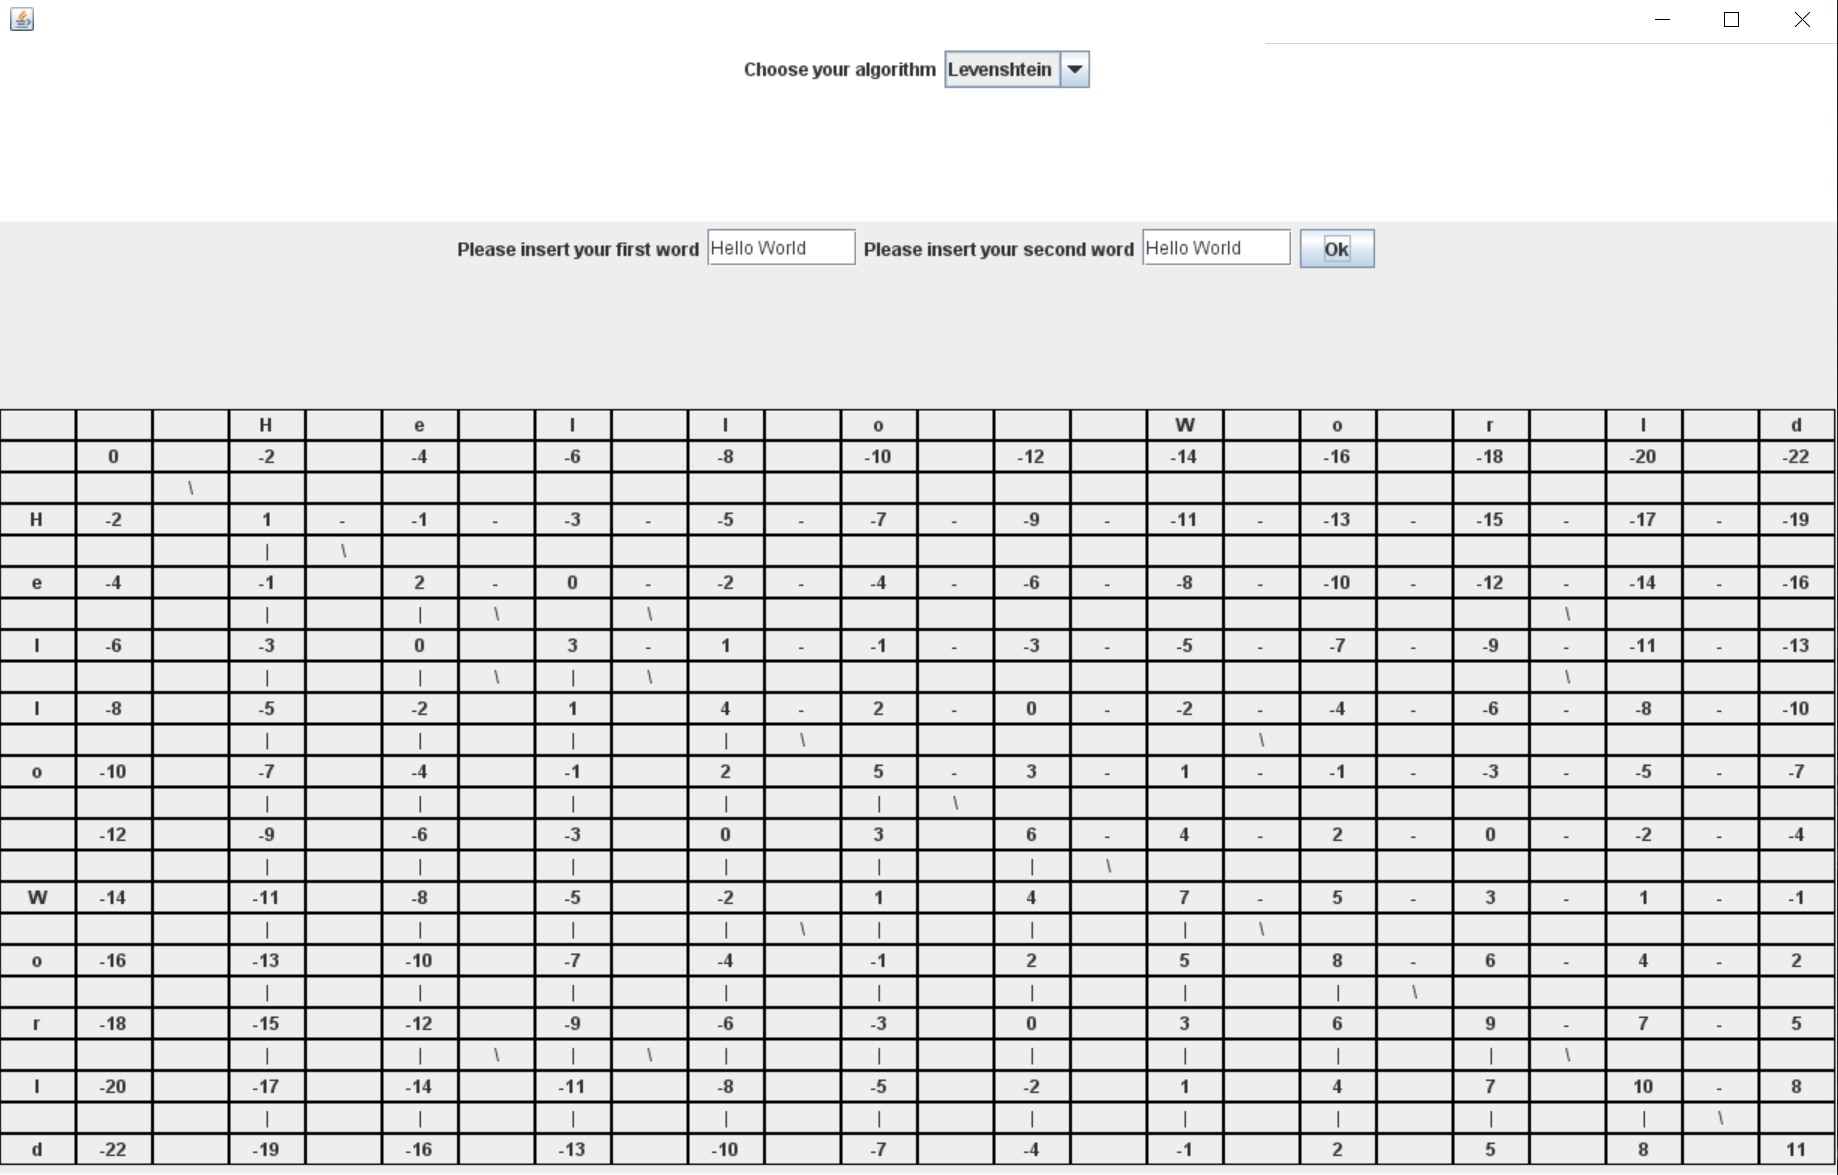
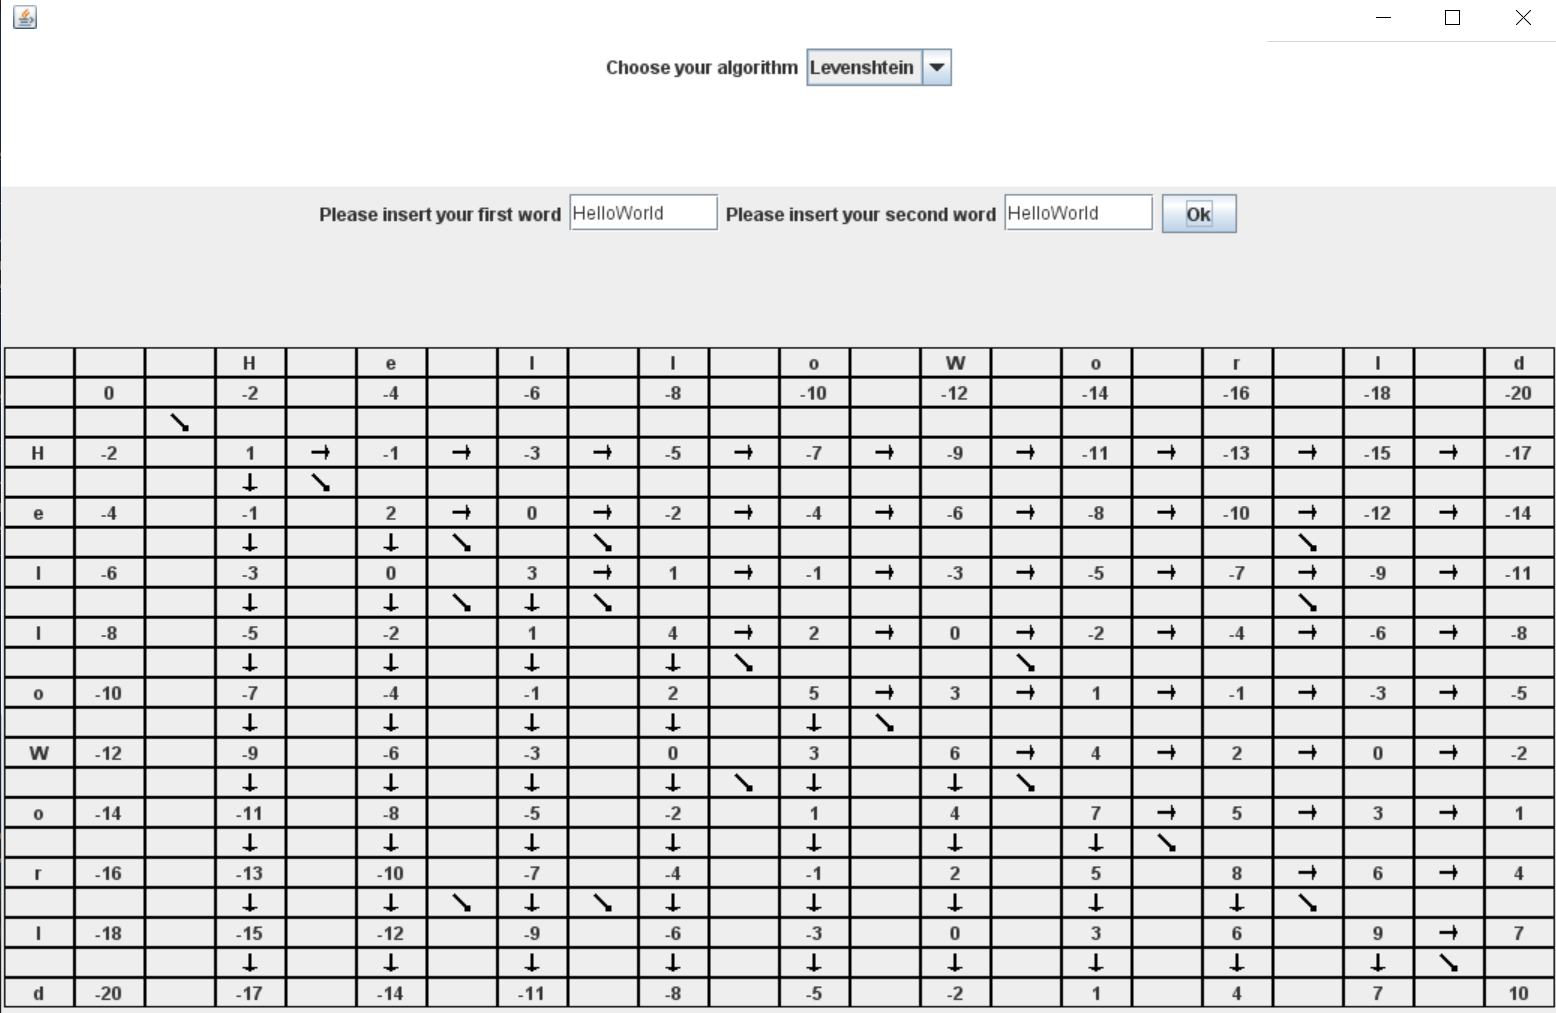
Images

diff --git a/src/views/LevenshteinMatrix.java b/src/views/LevenshteinMatrix.java
@@ -2,11 +2,13 @@ package views;
 
 import java.awt.Color;
 import java.awt.GridLayout;
+import java.awt.Image;
 
+import javax.swing.BorderFactory;
+import javax.swing.ImageIcon;
 import javax.swing.JLabel;
 import javax.swing.JOptionPane;
 import javax.swing.JPanel;
-import javax.swing.border.LineBorder;
 
 import controllers.LevenshteinController;
 import viewModels.LevenshteinViewModel;
@@ -74,7 +76,7 @@ public class LevenshteinMatrix extends JPanel {
 		            grid[i][j] = new JLabel();
 		            grid[i][j].setHorizontalAlignment(JLabel.CENTER);
 		            grid[i][j].setVerticalAlignment(JLabel.CENTER);
-		            grid[i][j].setBorder(new LineBorder(Color.BLACK));
+		            grid[i][j].setBorder(BorderFactory.createLineBorder(Color.BLACK, 1));
 		            grid[i][j].setOpaque(true);
 		        }
 			}
@@ -126,13 +128,16 @@ public class LevenshteinMatrix extends JPanel {
 				for(int j = 3; j < column; j++) {
 					if(i % 2 == 1 && j % 2 == 1) {
 						if(result.direction[vert][hor].contains("D-") || result.direction[vert][hor].contains("D+")) {
-							grid[i - 1][j - 1].setText("\\"); 
+							grid[i - 1][j - 1] = new JLabel(new ImageIcon(new ImageIcon(getClass().getResource("/ressource/arrow_southeast.svg.png")).getImage().getScaledInstance(12, 12, Image.SCALE_DEFAULT)));
+							grid[i - 1][j - 1].setBorder(BorderFactory.createLineBorder(Color.BLACK, 1));
 						}
 						if(result.direction[vert][hor].contains("U")) {
-							grid[i - 1][j].setText("|");
+							grid[i - 1][j] = new JLabel(new ImageIcon(new ImageIcon(getClass().getResource("/ressource/arrow_south.svg.png")).getImage().getScaledInstance(12, 12, Image.SCALE_DEFAULT)));
+							grid[i - 1][j].setBorder(BorderFactory.createLineBorder(Color.BLACK, 1));
 						}
 						if(result.direction[vert][hor].contains("L")) {
-							grid[i][j - 1].setText("-");
+							grid[i][j - 1] = new JLabel(new ImageIcon(new ImageIcon(getClass().getResource("/ressource/arrow_east.svg.png")).getImage().getScaledInstance(12, 12, Image.SCALE_DEFAULT)));
+							grid[i][j - 1].setBorder(BorderFactory.createLineBorder(Color.BLACK, 1));
 						}
 						hor++;
 					}
